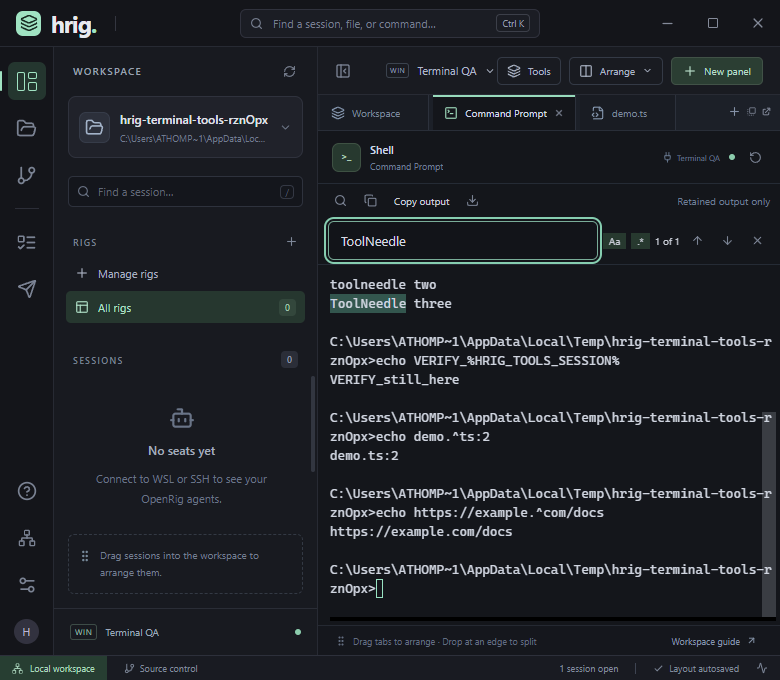
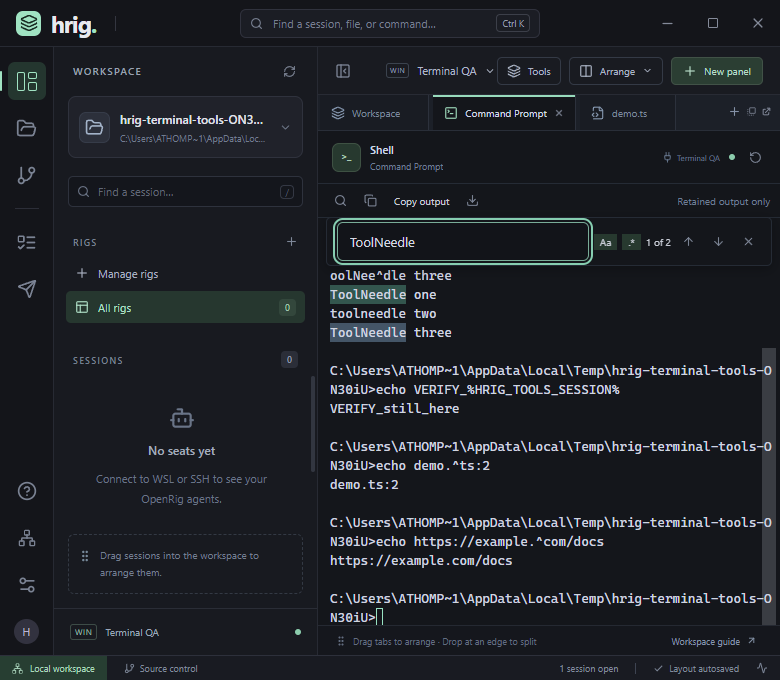
Record packaged terminal-tool QA and refresh README screenshot

Changed region(s): [[0.4, 0.3088, 1.0, 0.9265], [0.2769, 0.1544, 0.3385, 0.1853], [0.9538, 0.3397, 0.9846, 0.3706]]

diff --git a/ROADMAP.md b/ROADMAP.md
@@ -212,4 +212,4 @@ The user approved retaining Electron with a modular application-service boundary
 
 ### 0.10.0 - Terminal output tools (approved)
 
-HR-13: terminal search with case/regex, capped match counts, next/previous navigation, copy selection/output and native plain-text export; confirmed browser links and project-confined file links using the original connection. Search leaves the PTY intact and does not submit text to the shell. See [terminal behavior and limits](TERMINALS.md). Validation: clean production build and all 28 desktop journeys passed, including real-shell search/case/regex navigation, clipboard, export/cancel, clickable project files, browser confirmation and shell-variable continuity. All 33 applicable backend checks passed (one Unix-only check skipped); the added soft-wrap export check also passed separately. Packaged/native release gates follow.
+HR-13: terminal search with case/regex, capped match counts, next/previous navigation, copy selection/output and native plain-text export; confirmed browser links and project-confined file links using the original connection. Search leaves the PTY intact and does not submit text to the shell. See [terminal behavior and limits](TERMINALS.md). Validation: clean production build and all 28 desktop journeys passed, including real-shell search/case/regex navigation, clipboard, export/cancel, clickable project files, browser confirmation and shell-variable continuity. All 33 applicable backend checks passed (one Unix-only check skipped); the added soft-wrap export check also passed separately. Native release gates follow. Local packaged Windows PTY/editor/conflict/Git/doctor/board/draft checks and SHA-512 feed verification passed. The full terminal-tool journey also passed against the final unpacked executable, including an assertion that opening/searching/closing tools sends no PTY resize. Screenshot reviewed from that packaged executable.
